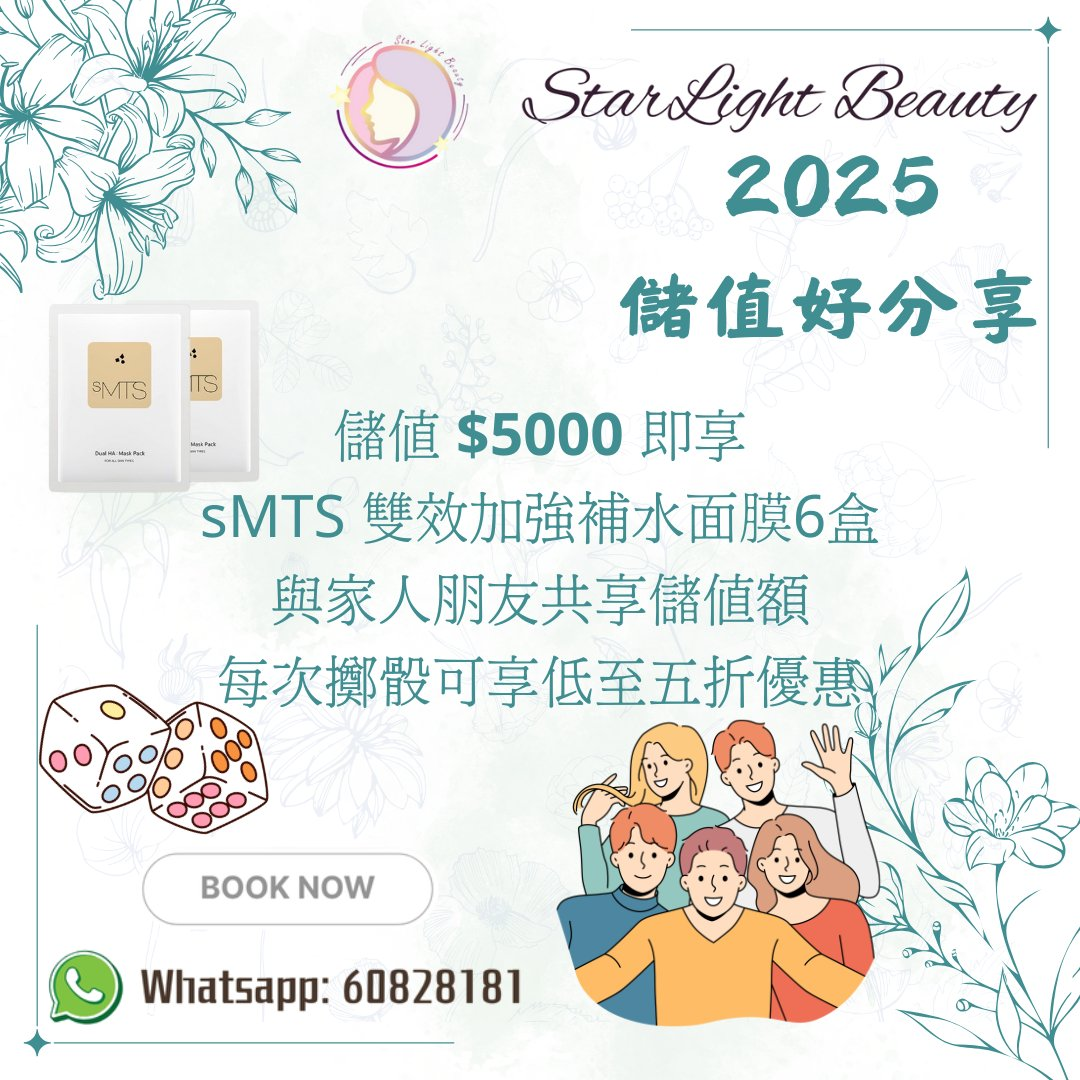
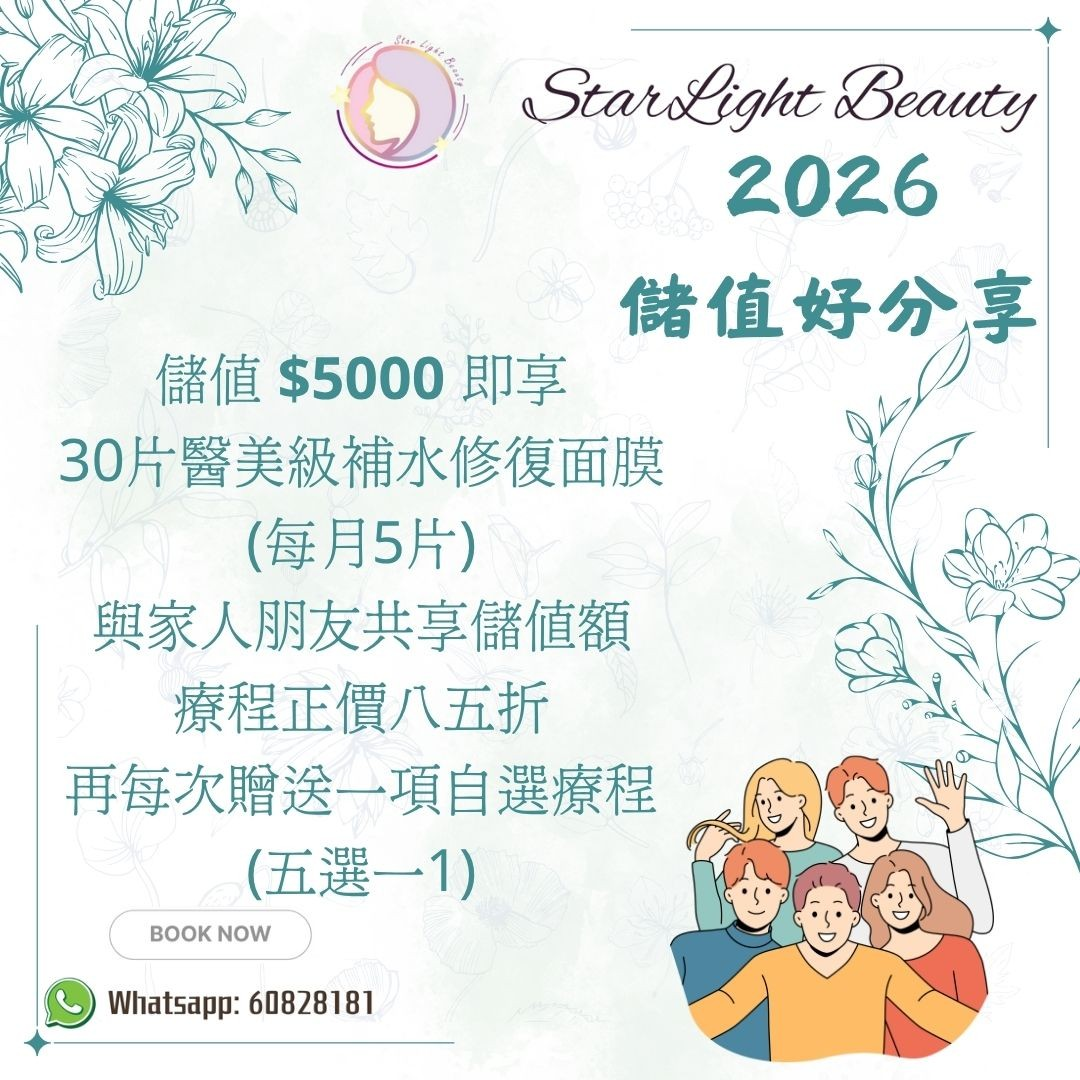
Add files via upload

diff --git a/tm-promo.html b/tm-promo.html
@@ -86,10 +86,11 @@
     color: var(--sub);
     margin-bottom: 28px;
   }
+  /* 用 column 排版（瀑布流）：海報有 4:5 同 1:1 兩種比例，
+     唔可以用 grid + 固定 aspect-ratio，否則 4:5 海報會被切走上下文字 */
   .promo-grid {
-    display: grid;
-    grid-template-columns: repeat(2, 1fr);
-    gap: 14px;
+    column-count: 2;
+    column-gap: 14px;
   }
   .promo-card {
     background: var(--card);
@@ -99,6 +100,11 @@
     border: 1px solid rgba(0,0,0,0.04);
     transition: transform 0.2s, box-shadow 0.2s;
     cursor: pointer;
+    display: block;
+    margin: 0 0 14px 0;
+    break-inside: avoid;
+    -webkit-column-break-inside: avoid;
+    page-break-inside: avoid;
   }
   .promo-card:hover {
     transform: translateY(-3px);
@@ -108,8 +114,6 @@
     width: 100%;
     height: auto;
     display: block;
-    aspect-ratio: 1 / 1;
-    object-fit: cover;
   }
   .promo-badge-tm {
     position: absolute;
@@ -136,7 +140,7 @@
   .footer a { color: var(--rose); text-decoration: none; }
 
   @media (max-width: 500px) {
-    .promo-grid { grid-template-columns: 1fr; }
+    .promo-grid { column-count: 1; }
   }
 </style>
 </head>
@@ -155,82 +159,86 @@
 <div class="gallery-container">
   <div class="gallery-title">🎁 最新優惠推廣</div>
   <div class="gallery-subtitle">屯門店專屬優惠 · 長按圖片可儲存分享</div>
-  
+
   <div class="promo-grid">
-    <div class="promo-card" style="position:relative;">
+    <div class="promo-card">
+      <img src="promo-images/p04_rose_moisture.jpg" alt="玫瑰保濕套餐 · 新客單次體驗價 $298（原價 $560）" loading="lazy">
+    </div>
+    <div class="promo-card">
+      <img src="promo-images/p33_rose_package.jpg" alt="玫瑰保濕套餐 $1,830／5 次（4 個月）· $2,980／10 次（8 個月）" loading="lazy">
+    </div>
+    <div class="promo-card">
+      <img src="promo-images/p22_new_customer_888.jpg" alt="星光雙選套票 $888／6 格 · 新客專屬 · 屯門荔枝角適用" loading="lazy">
+    </div>
+    <div class="promo-card">
+      <img src="promo-images/p29_grid_price.jpg" alt="星光自選格 價目：輕盈版 $1,988／20 格、長情版 $3,588／44 格" loading="lazy">
+    </div>
+    <div class="promo-card">
+      <img src="promo-images/p30_grid_items.jpg" alt="星光自選格 · 四大類 25 個項目一覽" loading="lazy">
+    </div>
+    <div class="promo-card">
+      <img src="promo-images/p31_expansion_1.jpg" alt="擴張優惠 買 4 送 1 $2,088 · 每次固定送 4 項＋選送 1 項" loading="lazy">
+    </div>
+    <div class="promo-card">
+      <img src="promo-images/p32_expansion_2.jpg" alt="擴張優惠 買 4 送 1 $2,088 · 7 款可選療程＋加送 1 次奢華人手 SPA FACIAL" loading="lazy">
+    </div>
+    <div class="promo-card">
+      <img src="promo-images/p13_sakura_facial.jpg" alt="桃花灸 SPA Facial · 單次 $598（體驗價 $420）· 5 次套組 $1,950" loading="lazy">
+    </div>
+    <div class="promo-card">
       <img src="promo-images/p02_pregnancy_lash.jpg" alt="孕睫術" loading="lazy">
     </div>
-    <div class="promo-card" style="position:relative;">
-      <img src="promo-images/p04_rose_moisture.jpg" alt="玫瑰保濕面部 $298" loading="lazy">
-    </div>
-    <div class="promo-card" style="position:relative;">
+    <div class="promo-card">
       <img src="promo-images/p06_baby_face_needle.jpg" alt="嬰兒針" loading="lazy">
     </div>
-    <div class="promo-card" style="position:relative;">
+    <div class="promo-card">
       <img src="promo-images/p07_inimini_micro.jpg" alt="INIMINI 超極微針" loading="lazy">
     </div>
-    <div class="promo-card" style="position:relative;">
+    <div class="promo-card">
       <img src="promo-images/p08_peel_to_grow.jpg" alt="Peel to Grow" loading="lazy">
     </div>
-    <div class="promo-card" style="position:relative;">
+    <div class="promo-card">
       <img src="promo-images/p09_smts_info.jpg" alt="SMTS 療程介紹" loading="lazy">
     </div>
-    <div class="promo-card" style="position:relative;">
+    <div class="promo-card">
       <img src="promo-images/p10_smts_price.jpg" alt="SMTS 療程價目" loading="lazy">
     </div>
-    <div class="promo-card" style="position:relative;">
+    <div class="promo-card">
       <img src="promo-images/p11_nadpdrn_repair.jpg" alt="NAD+ & PDRN 極緻修復" loading="lazy">
     </div>
-    <div class="promo-card" style="position:relative;">
+    <div class="promo-card">
       <img src="promo-images/p12_exosome_repair.jpg" alt="外泌體修復 Exosomes" loading="lazy">
     </div>
-    <div class="promo-card" style="position:relative;">
-      <img src="promo-images/p13_sakura_facial.jpg" alt="櫻花 SPA Facial" loading="lazy">
-    </div>
-    <div class="promo-card" style="position:relative;">
+    <div class="promo-card">
       <img src="promo-images/p14_nmn_antiaging.jpg" alt="NMN 逆齡抗衰老" loading="lazy">
     </div>
-    <div class="promo-card" style="position:relative;">
-      <span class="promo-badge-tm">屯門限定</span>
-      <img src="promo-images/p15_high_end_tm_only.jpg" alt="高端護理 $1588/5次 只限屯門" loading="lazy">
-    </div>
-    <div class="promo-card" style="position:relative;">
-      <img src="promo-images/p16_buy2get1free.jpg" alt="買2送1" loading="lazy">
-    </div>
-    <div class="promo-card" style="position:relative;">
+    <div class="promo-card">
       <img src="promo-images/p17_oxygen_bubble.jpg" alt="氧氣泡泡清潔 + 免費肩頸按摩" loading="lazy">
     </div>
-    <div class="promo-card" style="position:relative;">
+    <div class="promo-card">
       <img src="promo-images/p18_dalton_detox.jpg" alt="Dalton 排毒療程" loading="lazy">
     </div>
-    <div class="promo-card" style="position:relative;">
+    <div class="promo-card">
       <img src="promo-images/p19_eye_treatment.jpg" alt="眼週護理" loading="lazy">
     </div>
-    <div class="promo-card" style="position:relative;">
-      <img src="promo-images/p20_stamp_rewards.jpg" alt="印戳獎賞 Stamp Rewards" loading="lazy">
+    <div class="promo-card">
+      <img src="promo-images/p20_stamp_rewards_tm.jpg" alt="印花換好禮（屯門）· 消費滿 $1,000 得 1 個印花 · 儲 5 個換 1 次彩光嫩膚" loading="lazy">
     </div>
     <div class="promo-card" style="position:relative;">
       <span class="promo-badge-tm">屯門限定</span>
       <img src="promo-images/p21_hair_removal_tm_only.jpg" alt="LASER 脫毛優惠 只限屯門" loading="lazy">
     </div>
-    <div class="promo-card" style="position:relative;">
-      <img src="promo-images/p22_new_customer_888.jpg" alt="2026 新客體驗優惠 $888/3次" loading="lazy">
+    <div class="promo-card">
+      <img src="promo-images/p25_topup_sharing.jpg" alt="2026 儲值好分享 · 儲值 $5,000 享醫美級補水修復面膜 30 片" loading="lazy">
     </div>
-    <div class="promo-card" style="position:relative;">
-      <span class="promo-badge-tm">屯門限定</span>
-      <img src="promo-images/p24_monthly_plan_tm.jpg" alt="屯門月費計劃 $988/$1588" loading="lazy">
-    </div>
-    <div class="promo-card" style="position:relative;">
-      <img src="promo-images/p25_topup_sharing.jpg" alt="充值分享 SMTS 等" loading="lazy">
-    </div>
-    <div class="promo-card" style="position:relative;">
-      <img src="promo-images/p26_topup_dice.jpg" alt="充值抽獎" loading="lazy">
+    <div class="promo-card">
+      <img src="promo-images/p26_topup_details.jpg" alt="2026 儲值好分享 · 有效期 6 個月 · 每次可選贈送項目（五選一）" loading="lazy">
     </div>
     <div class="promo-card" style="position:relative;">
       <span class="promo-badge-tm">屯門限定</span>
       <img src="promo-images/p27_high_energy_tm_only.jpg" alt="高能量儀器任你做 只限屯門" loading="lazy">
     </div>
-    <div class="promo-card" style="position:relative;">
+    <div class="promo-card">
       <img src="promo-images/p28_bestie_group.jpg" alt="閨密同行優惠" loading="lazy">
     </div>
   </div>

diff --git a/lkc-promo.html b/lkc-promo.html
@@ -89,10 +89,11 @@
     color: var(--sub);
     margin-bottom: 28px;
   }
+  /* 用 column 排版（瀑布流）：海報有 4:5 同 1:1 兩種比例，
+     唔可以用 grid + 固定 aspect-ratio，否則 4:5 海報會被切走上下文字 */
   .promo-grid {
-    display: grid;
-    grid-template-columns: repeat(2, 1fr);
-    gap: 14px;
+    column-count: 2;
+    column-gap: 14px;
   }
   .promo-card {
     background: var(--card);
@@ -102,6 +103,11 @@
     border: 1px solid rgba(0,0,0,0.04);
     transition: transform 0.2s, box-shadow 0.2s;
     cursor: pointer;
+    display: block;
+    margin: 0 0 14px 0;
+    break-inside: avoid;
+    -webkit-column-break-inside: avoid;
+    page-break-inside: avoid;
   }
   .promo-card:hover {
     transform: translateY(-3px);
@@ -111,8 +117,6 @@
     width: 100%;
     height: auto;
     display: block;
-    aspect-ratio: 1 / 1;
-    object-fit: cover;
   }
 
   /* Footer */
@@ -127,7 +131,7 @@
   .footer a { color: var(--blue); text-decoration: none; }
 
   @media (max-width: 500px) {
-    .promo-grid { grid-template-columns: 1fr; }
+    .promo-grid { column-count: 1; }
   }
 </style>
 </head>
@@ -148,64 +152,76 @@
   <div class="gallery-subtitle">荔枝角店專屬優惠 · 長按圖片可儲存分享</div>
   
   <div class="promo-grid">
-    <div class="promo-card" style="position:relative;">
+    <div class="promo-card">
+      <img src="promo-images/p04_rose_moisture.jpg" alt="玫瑰保濕套餐 · 新客單次體驗價 $298（原價 $560）" loading="lazy">
+    </div>
+    <div class="promo-card">
+      <img src="promo-images/p33_rose_package.jpg" alt="玫瑰保濕套餐 $1,830／5 次（4 個月）· $2,980／10 次（8 個月）" loading="lazy">
+    </div>
+    <div class="promo-card">
+      <img src="promo-images/p22_new_customer_888.jpg" alt="星光雙選套票 $888／6 格 · 新客專屬 · 屯門荔枝角適用" loading="lazy">
+    </div>
+    <div class="promo-card">
+      <img src="promo-images/p29_grid_price.jpg" alt="星光自選格 價目：輕盈版 $1,988／20 格、長情版 $3,588／44 格" loading="lazy">
+    </div>
+    <div class="promo-card">
+      <img src="promo-images/p30_grid_items.jpg" alt="星光自選格 · 四大類 25 個項目一覽" loading="lazy">
+    </div>
+    <div class="promo-card">
+      <img src="promo-images/p31_expansion_1.jpg" alt="擴張優惠 買 4 送 1 $2,088 · 每次固定送 4 項＋選送 1 項" loading="lazy">
+    </div>
+    <div class="promo-card">
+      <img src="promo-images/p32_expansion_2.jpg" alt="擴張優惠 買 4 送 1 $2,088 · 7 款可選療程＋加送 1 次奢華人手 SPA FACIAL" loading="lazy">
+    </div>
+    <div class="promo-card">
+      <img src="promo-images/p13_sakura_facial.jpg" alt="桃花灸 SPA Facial · 單次 $598（體驗價 $420）· 5 次套組 $1,950" loading="lazy">
+    </div>
+    <div class="promo-card">
       <img src="promo-images/p02_pregnancy_lash.jpg" alt="孕睫術" loading="lazy">
     </div>
-    <div class="promo-card" style="position:relative;">
-      <img src="promo-images/p04_rose_moisture.jpg" alt="玫瑰保濕面部 $298" loading="lazy">
-    </div>
-    <div class="promo-card" style="position:relative;">
+    <div class="promo-card">
       <img src="promo-images/p06_baby_face_needle.jpg" alt="嬰兒針" loading="lazy">
     </div>
-    <div class="promo-card" style="position:relative;">
+    <div class="promo-card">
       <img src="promo-images/p07_inimini_micro.jpg" alt="INIMINI 超極微針" loading="lazy">
     </div>
-    <div class="promo-card" style="position:relative;">
+    <div class="promo-card">
       <img src="promo-images/p08_peel_to_grow.jpg" alt="Peel to Grow" loading="lazy">
     </div>
-    <div class="promo-card" style="position:relative;">
+    <div class="promo-card">
       <img src="promo-images/p09_smts_info.jpg" alt="SMTS 療程介紹" loading="lazy">
     </div>
-    <div class="promo-card" style="position:relative;">
+    <div class="promo-card">
       <img src="promo-images/p10_smts_price.jpg" alt="SMTS 療程價目" loading="lazy">
     </div>
-    <div class="promo-card" style="position:relative;">
+    <div class="promo-card">
       <img src="promo-images/p11_nadpdrn_repair.jpg" alt="NAD+ & PDRN 極緻修復" loading="lazy">
     </div>
-    <div class="promo-card" style="position:relative;">
+    <div class="promo-card">
       <img src="promo-images/p12_exosome_repair.jpg" alt="外泌體修復 Exosomes" loading="lazy">
     </div>
-    <div class="promo-card" style="position:relative;">
-      <img src="promo-images/p13_sakura_facial.jpg" alt="櫻花 SPA Facial" loading="lazy">
-    </div>
-    <div class="promo-card" style="position:relative;">
+    <div class="promo-card">
       <img src="promo-images/p14_nmn_antiaging.jpg" alt="NMN 逆齡抗衰老" loading="lazy">
     </div>
-    <div class="promo-card" style="position:relative;">
-      <img src="promo-images/p16_buy2get1free.jpg" alt="買2送1" loading="lazy">
-    </div>
-    <div class="promo-card" style="position:relative;">
+    <div class="promo-card">
       <img src="promo-images/p17_oxygen_bubble.jpg" alt="氧氣泡泡清潔 + 免費肩頸按摩" loading="lazy">
     </div>
-    <div class="promo-card" style="position:relative;">
+    <div class="promo-card">
       <img src="promo-images/p18_dalton_detox.jpg" alt="Dalton 排毒療程" loading="lazy">
     </div>
-    <div class="promo-card" style="position:relative;">
+    <div class="promo-card">
       <img src="promo-images/p19_eye_treatment.jpg" alt="眼週護理" loading="lazy">
     </div>
-    <div class="promo-card" style="position:relative;">
-      <img src="promo-images/p20_stamp_rewards.jpg" alt="印戳獎賞 Stamp Rewards" loading="lazy">
+    <div class="promo-card">
+      <img src="promo-images/p20_stamp_rewards_lkc.jpg" alt="印花換好禮（荔枝角）· 消費滿 $1,000 得 1 個印花 · 儲 5 個換 2 次 LED 光療" loading="lazy">
     </div>
-    <div class="promo-card" style="position:relative;">
-      <img src="promo-images/p22_new_customer_888.jpg" alt="2026 新客體驗優惠 $888/3次" loading="lazy">
+    <div class="promo-card">
+      <img src="promo-images/p25_topup_sharing.jpg" alt="2026 儲值好分享 · 儲值 $5,000 享醫美級補水修復面膜 30 片" loading="lazy">
     </div>
-    <div class="promo-card" style="position:relative;">
-      <img src="promo-images/p25_topup_sharing.jpg" alt="充值分享 SMTS 等" loading="lazy">
+    <div class="promo-card">
+      <img src="promo-images/p26_topup_details.jpg" alt="2026 儲值好分享 · 有效期 6 個月 · 每次可選贈送項目（五選一）" loading="lazy">
     </div>
-    <div class="promo-card" style="position:relative;">
-      <img src="promo-images/p26_topup_dice.jpg" alt="充值抽獎" loading="lazy">
-    </div>
-    <div class="promo-card" style="position:relative;">
+    <div class="promo-card">
       <img src="promo-images/p28_bestie_group.jpg" alt="閨密同行優惠" loading="lazy">
     </div>
   </div>

diff --git a/expansion.html b/expansion.html
@@ -151,13 +151,13 @@
   <div class="card">
     <h2><span class="ico">🎯</span>可選療程（7 款）</h2>
     <div class="chips">
-      <span class="chip">控油收毛孔療程</span>
-      <span class="chip">膠原深層導入護理</span>
-      <span class="chip">NMN 雕逆齡療程</span>
-      <span class="chip">泡芙嫩膚療程</span>
-      <span class="chip">祛黃提亮療程</span>
-      <span class="chip">抗衰緊緻療程</span>
-      <span class="chip">藍銅修護保濕療程</span>
+      <span class="chip">控油收毛孔療程 · 原價 $570</span>
+      <span class="chip">膠原深層導入護理 · 原價 $680</span>
+      <span class="chip">NMN 逆齡療程 · 原價 $680</span>
+      <span class="chip">泡芙嫩膚療程 · 原價 $580</span>
+      <span class="chip">祛黃提亮療程 · 原價 $520</span>
+      <span class="chip">抗衰緊緻療程 · 原價 $520</span>
+      <span class="chip">藍銅修護保濕療程 · 原價 $660</span>
     </div>
     <p style="font-size:13px;color:var(--sub);margin-top:12px;">
       💡 每次可按當時皮膚狀態揀唔同療程，唔使一開始決定晒。</p>

diff --git a/grid.html b/grid.html
@@ -173,7 +173,7 @@
       <div class="plan best">
         <div class="pname">長 情 版</div>
         <div class="pprice">$3,588</div>
-        <div class="pmeta">40 格 <b>送 4 格</b> → <b>11 次</b><br>有效期 12 個月</div>
+        <div class="pmeta">44 格（40 格 <b>送 4 格</b>）→ <b>11 次</b><br>有效期 10 個月</div>
         <div class="pavg">平均 $326／次</div>
         <div class="ptag">比輕盈版平 18%</div>
       </div>
@@ -276,7 +276,7 @@
 
   <div class="terms">
     📌 條款：每次扣 4 格（四大類各 1 樣），每次約 60–75 分鐘；
-    輕盈版有效期 5 個月、長情版 12 個月，由開卡日起計；
+    輕盈版有效期 5 個月、長情版 10 個月，由開卡日起計；
     兩店通用，任何時段都用得；每次最多用 6 格；
     限本人使用，不設退款及轉讓；面膜升級 $50／次（自選）；
     到期未用之格數不設補償，建議按時預約。
